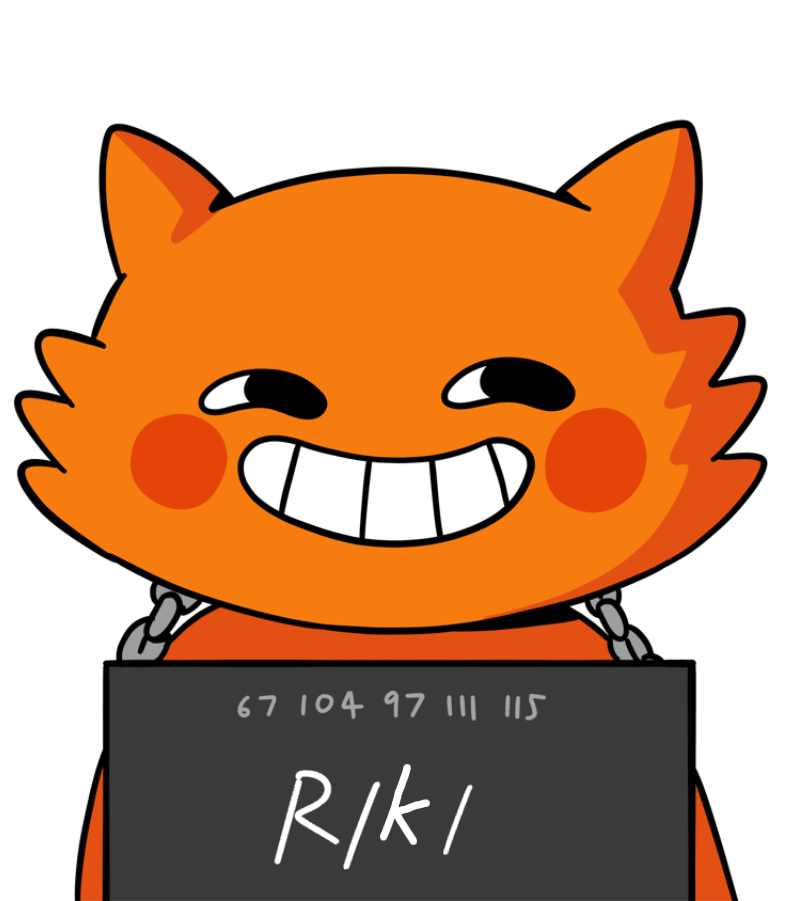
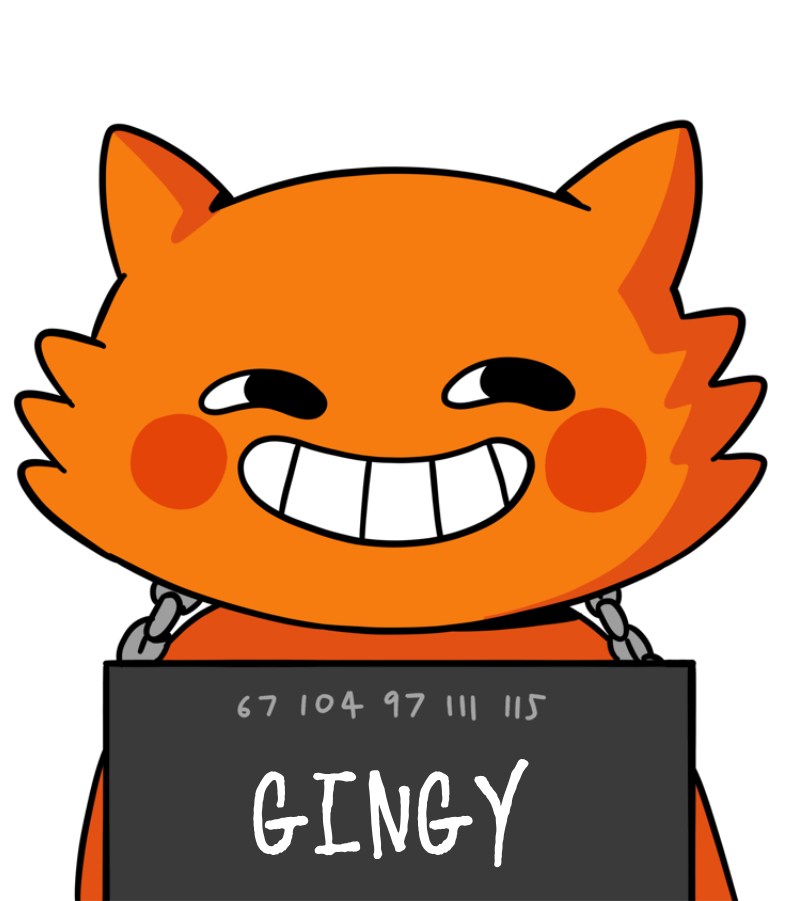
1

Changed region(s): [[0.3026, 0.8391, 0.6658, 0.9634]]

diff --git a/index.html b/index.html
@@ -3,9 +3,9 @@
 
 <head>
   <meta charset="utf-8">
-  <title>The Chaotic Cat | $RIKI</title>
+  <title>The Ginger Cat | $GINGY</title>
   <meta content="width=device-width, initial-scale=1" name="viewport">
-  <meta content="The Chaotic Cat" name="$RIKI">
+  <meta content="The Ginger Cat" name="$GINGY">
   <link href="css/normalize.css" rel="stylesheet" type="text/css">
   <link href="css/style.css" rel="stylesheet" type="text/css">
   <link href="css/bstyle.css" rel="stylesheet" type="text/css">
@@ -28,7 +28,7 @@ font-family: 'Super Squad';
   <div class="section_hero">
     <a data-w-id="4e8d95c4-39d8-cf17-89f1-7575d3437792"
       style="-webkit-transform:translate3d(0, 0, 0) scale3d(1, 1, 1) rotateX(0) rotateY(0) rotateZ(-4deg) skew(0, 0);-moz-transform:translate3d(0, 0, 0) scale3d(1, 1, 1) rotateX(0) rotateY(0) rotateZ(-4deg) skew(0, 0);-ms-transform:translate3d(0, 0, 0) scale3d(1, 1, 1) rotateX(0) rotateY(0) rotateZ(-4deg) skew(0, 0);transform:translate3d(0, 0, 0) scale3d(1, 1, 1) rotateX(0) rotateY(0) rotateZ(-4deg) skew(0, 0)"
-      href="https://pump.fun/HbG9R3b6K456TR8Bhe65corn4audWySoV3SweBwrump" class="buy w-button">BUY $RIKI</a>
+      href="https://pump.fun/5cEz4aMeWr4Db9MqjP2Xm5LRbrVbmtCFeX1kjJcBump" class="buy w-button">BUY $GINGY</a>
     <img src="images/liane_left.svg" loading="lazy" alt="" class="liane_left">
     <img src="images/liane_right.svg" loading="lazy" alt="" class="laine_right">
     <div class="grass_hero">
@@ -50,15 +50,15 @@ font-family: 'Super Squad';
           dominant-baseline: central;
         }
       </style>
-      <text class="rico-text" x="50%" y="35%">RIKI</text>
+      <text class="rico-text" x="50%" y="35%">GINGY</text>
     </svg>
 
 
     <img src="images/rico-h.png" loading="lazy" sizes="100vw" srcset="images/rico-h.png 500w, images/rico-h.png 793w"
       alt="" class="chara_hero">
     <div class="links_hero">
-      <a href="https://t.me/rikicoinsol" class="tg w-button" target="blank"></a>
-      <a href="https://x.com/rikicoinsol
+      <a href="https://t.me/gingyonsolana" class="tg w-button" target="blank"></a>
+      <a href="https://x.com/gingyonsolana
 " class="x w-button" target="blank"></a>
 
     </div>
@@ -66,8 +66,8 @@ font-family: 'Super Squad';
   <div class="separator_ca">
     <div class="block_ca">
       <div class="ca_in">
-        <div class="ca">HbG9R3b6K456TR8Bhe65corn4audWySoV3SweBwrump</div>
-        <div class="ca_mobile">HbG9R3b6K456TR8Bhe65corn4audWySoV3SweBwrump</div>
+        <div class="ca">5cEz4aMeWr4Db9MqjP2Xm5LRbrVbmtCFeX1kjJcBump</div>
+        <div class="ca_mobile">5cEz4aMeWr4Db9MqjP2Xm5LRbrVbmtCFeX1kjJcBump</div>
         <a href="#" class="copy w-button">COPY</a>
       </div>
     </div>
@@ -80,7 +80,7 @@ font-family: 'Super Squad';
   </div>
   <div class="section_about_bottom">
     <div class="block_para">
-      <p class="paragraph">Yeah, I’m RIKI the cat. The troublemaker, the chaos starter, the one who keeps things
+      <p class="paragraph">Yeah, I’m GINGY the cat. The troublemaker, the chaos starter, the one who keeps things
         interesting. I don’t just cause a
         scene—I own it. But don’t let the mischief fool you—I’ve got big plans, and they’re just getting started. You’re
         here
@@ -97,7 +97,7 @@ font-family: 'Super Squad';
     <div class="block_tokenomics">
       <div class="tokenomics_in">
         <div class="tokenomics_details">
-          <div class="h2">TOTAL SUPPLY = 1 BILLION $RIKI</div>
+          <div class="h2">TOTAL SUPPLY = 1 BILLION $GINGY</div>
         </div>
         <div class="tokenomics_details">
           <div class="h2">MINT = REVOKED</div>
@@ -113,10 +113,10 @@ font-family: 'Super Squad';
       class="chara_diamond">
   </div>
   <div class="section_join">
-    <div class="h1 h1_3">RIKI THE<br>CHAOTIC CAT</div>
+    <div class="h1 h1_3">GINGY THE<br>CHAOTIC CAT</div>
     <div class="block_links">
-      <a href="https://t.me/rikicoinsol" class="tg w-button" target="blank"></a>
-      <a href="https://x.com/rikicoinsol" class="x w-button" target="blank"></a>
+      <a href="https://t.me/gingyonsolana" class="tg w-button" target="blank"></a>
+      <a href="https://x.com/gingyonsolana" class="x w-button" target="blank"></a>
 
     </div><img src="images/rico.png" loading="lazy" sizes="(max-width: 479px) 90vw, 410.7749938964844px"
       srcset="images/rico.png 500w, images/rico.png 800w" alt="" class="chara_footer">
